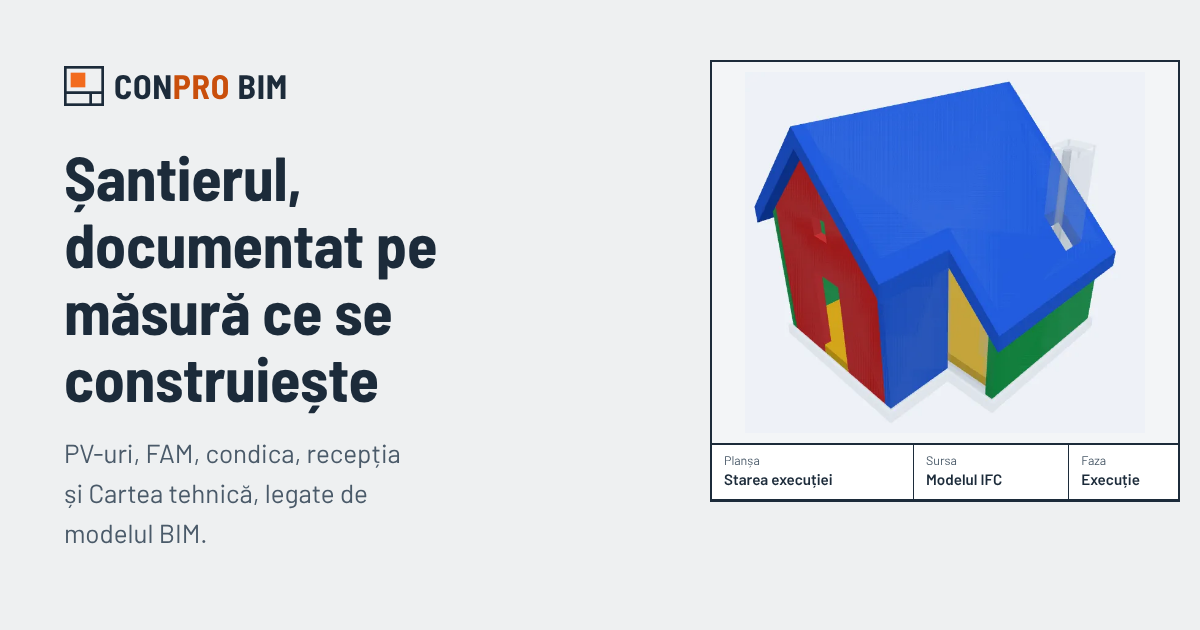
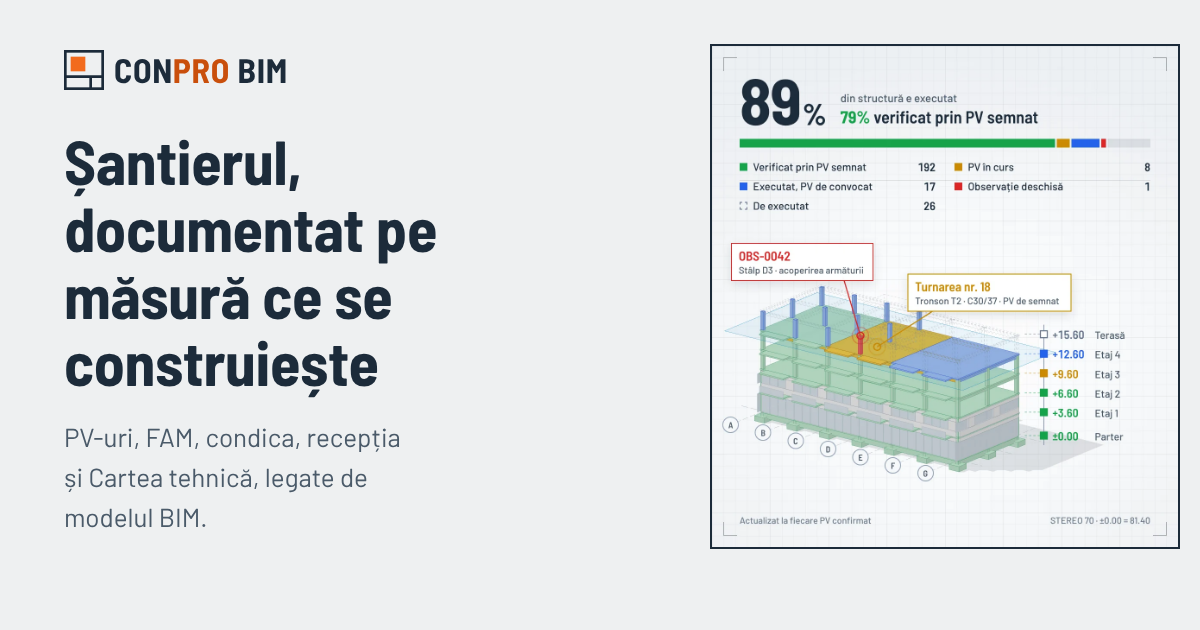
Site: imagine nouă în hero, progresul structurii pe model
- Imaginea casei e înlocuită cu blocul BLC01 în execuție: 89% din
  structură executat, 79% verificat prin PV, bara de progres și legenda
  cu numărul de elemente, cotele nivelurilor și două etichete pe model
  (OBS-0042, turnarea nr. 18). Partea neconstruită e doar conturată.
- Legenda din cartuș e scoasă, fiindcă e acum în imagine.
- og.png refăcut în același stil.
- site.css și site.js primesc ?v= după conținut, ca vizitatorii care
  revin să nu rămână cu fișierele vechi din cache.

Claude-Session: https://claude.ai/code/session_01XNgf3RWiH7pGkiT6GoQbCw

Changed region(s): [[0.5858, 0.0603, 0.9867, 0.8746], [0.0308, 0.2111, 0.37, 0.8746], [0.0308, 0.0603, 0.2467, 0.181]]

diff --git a/site/public/index.html b/site/public/index.html
@@ -19,9 +19,9 @@
 <link rel="icon" href="/favicon.svg" type="image/svg+xml">
 <link rel="preload" href="/assets/fonts/barlow-semi-condensed-latin-700-normal.woff2" as="font" type="font/woff2" crossorigin>
 <link rel="preload" href="/assets/fonts/barlow-latin-400-normal.woff2" as="font" type="font/woff2" crossorigin>
-<link rel="stylesheet" href="/assets/site.css">
+<link rel="stylesheet" href="/assets/site.css?v=215c3ca7ae">
 <script src="/assets/config.js"></script>
-<script src="/assets/site.js" defer></script>
+<script src="/assets/site.js?v=7b73b137cf" defer></script>
 <script type="application/ld+json">{"@context":"https://schema.org","@type":"Organization","name":"Conpro Solutions SRL","url":"https://conpro.ro","email":"office@conpro.ro","telephone":"+40745667495","taxID":"RO40247566","address":{"@type":"PostalAddress","streetAddress":"Str. Metalurgiei nr. 8","addressLocality":"Baia Mare","addressRegion":"Maramureș","addressCountry":"RO"}}</script>
 <script type="application/ld+json">{"@context":"https://schema.org","@type":"SoftwareApplication","name":"Conpro BIM","applicationCategory":"BusinessApplication","operatingSystem":"Web","url":"https://bim.conpro.ro","inLanguage":"ro","publisher":{"@type":"Organization","name":"Conpro Solutions SRL"},"description":"Aplicație pentru documentarea execuției construcțiilor: procese verbale, FAM, condica de betoane, registrul dirigintelui, recepția și Cartea tehnică, legate de modelul BIM (IFC). Conformă cu Legea 169/2026 și SR EN ISO 19650.","featureList":["Procese verbale de lucrări ascunse și faze determinante","Fișe de aprobare a materialelor (FAM)","Condica de betoane și încercări","Registrul electronic al dirigintelui și RTE","Model IFC colorat după starea execuției","Observații pe model în format BCF 2.1","Verificarea modelului după reguli IDS 1.0","Recepția la terminarea lucrărilor","Cartea tehnică electronică și COBie","EIR și BEP după ISO 19650","Urmărirea în timp, mentenanță și reclamații în exploatare"]}</script>
 </head>
@@ -41,15 +41,9 @@
     <div class="actiuni"><a class="buton principal" href="#demo">Programează o demonstrație</a><a class="buton" href="#roluri">Ce face pentru dumneavoastră</a></div>
   </div>
   <figure class="plansa" style="margin:0">
-  <div class="desen"><img src="/assets/img/model-executie.webp" width="652" height="588" alt="Modelul 3D al clădirii colorat după starea execuției: verde verificat prin PV semnat, galben PV în curs, albastru executat, roșu cu observație deschisă" fetchpriority="high"></div>
+  <div class="desen"><img src="/assets/img/structura-azi.webp" width="1080" height="1160" alt="Modelul 3D al blocului BLC01 în execuție: 89% din structură executat, 79% verificat prin PV semnat. Structura e colorată după stare: verde verificat prin PV semnat, galben PV în curs, albastru executat, roșu cu observație deschisă, iar ce urmează e doar conturat. Pe model: observația OBS-0042 la stâlpul D3 și turnarea nr. 18 pe tronsonul T2; în dreapta, cotele nivelurilor de la ±0.00 la +15.60" fetchpriority="high"></div>
   <figcaption class="cartus">
     <div><small>Proiect</small><strong>BLC01 · Bloc de locuințe P+4</strong></div><div><small>Planșa</small><strong>Starea execuției pe model</strong></div><div class="ascunde-mic"><small>Faza</small><strong>Execuție</strong></div><div><small>Sursa</small><strong>Modelul IFC, 3 discipline</strong></div><div><small>Actualizat</small><strong>la fiecare PV confirmat</strong></div><div class="ascunde-mic"><small>Scara</small><strong>întreaga clădire</strong></div>
-    <div class="lat"><small>Legenda</small><ul class="legenda">
-      <li><i style="background:var(--verificat)"></i>Verificat prin PV semnat</li>
-      <li><i style="background:var(--in-verificare)"></i>PV în curs</li>
-      <li><i style="background:var(--executat)"></i>Executat</li>
-      <li><i style="background:var(--observatie)"></i>Observație deschisă</li>
-    </ul></div>
   </figcaption>
 </figure>
 </div></section>

diff --git a/site/public/beneficiari-publici/index.html b/site/public/beneficiari-publici/index.html
@@ -19,9 +19,9 @@
 <link rel="icon" href="/favicon.svg" type="image/svg+xml">
 <link rel="preload" href="/assets/fonts/barlow-semi-condensed-latin-700-normal.woff2" as="font" type="font/woff2" crossorigin>
 <link rel="preload" href="/assets/fonts/barlow-latin-400-normal.woff2" as="font" type="font/woff2" crossorigin>
-<link rel="stylesheet" href="/assets/site.css">
+<link rel="stylesheet" href="/assets/site.css?v=215c3ca7ae">
 <script src="/assets/config.js"></script>
-<script src="/assets/site.js" defer></script>
+<script src="/assets/site.js?v=7b73b137cf" defer></script>
 <script type="application/ld+json">{"@context":"https://schema.org","@type":"SoftwareApplication","name":"Conpro BIM","applicationCategory":"BusinessApplication","operatingSystem":"Web","url":"https://bim.conpro.ro","inLanguage":"ro","publisher":{"@type":"Organization","name":"Conpro Solutions SRL"},"description":"Aplicație pentru documentarea execuției construcțiilor: procese verbale, FAM, condica de betoane, registrul dirigintelui, recepția și Cartea tehnică, legate de modelul BIM (IFC). Conformă cu Legea 169/2026 și SR EN ISO 19650.","featureList":["Procese verbale de lucrări ascunse și faze determinante","Fișe de aprobare a materialelor (FAM)","Condica de betoane și încercări","Registrul electronic al dirigintelui și RTE","Model IFC colorat după starea execuției","Observații pe model în format BCF 2.1","Verificarea modelului după reguli IDS 1.0","Recepția la terminarea lucrărilor","Cartea tehnică electronică și COBie","EIR și BEP după ISO 19650","Urmărirea în timp, mentenanță și reclamații în exploatare"]}</script>
 </head>
 <body data-rol="Beneficiar public">
@@ -40,15 +40,9 @@
     <div class="actiuni"><a class="buton principal" href="#demo">Programează o demonstrație</a><a class="buton" href="#functii">Ce face, pe scurt</a></div>
   </div>
   <figure class="plansa" style="margin:0">
-  <div class="desen"><img src="/assets/img/model-executie.webp" width="652" height="588" alt="Modelul 3D al clădirii colorat după starea execuției, în Conpro BIM" fetchpriority="high"></div>
+  <div class="desen"><img src="/assets/img/structura-azi.webp" width="1080" height="1160" alt="Modelul 3D al blocului BLC01 în execuție: 89% din structură executat, 79% verificat prin PV semnat. Structura e colorată după stare: verde verificat prin PV semnat, galben PV în curs, albastru executat, roșu cu observație deschisă, iar ce urmează e doar conturat. Pe model: observația OBS-0042 la stâlpul D3 și turnarea nr. 18 pe tronsonul T2; în dreapta, cotele nivelurilor de la ±0.00 la +15.60" fetchpriority="high"></div>
   <figcaption class="cartus">
     <div><small>Rolul</small><strong>Beneficiar public</strong></div><div><small>Cerințe</small><strong>EIR și fișier IDS 1.0</strong></div><div class="ascunde-mic"><small>Standard</small><strong>SR EN ISO 19650</strong></div><div><small>Verificare</small><strong>automată, pe modelele IFC</strong></div><div><small>Predare</small><strong>Cartea tehnică și COBie</strong></div><div class="ascunde-mic"><small>Exploatare</small><strong>ISO 19650-3</strong></div>
-    <div class="lat"><small>Legenda</small><ul class="legenda">
-      <li><i style="background:var(--verificat)"></i>Verificat prin PV semnat</li>
-      <li><i style="background:var(--in-verificare)"></i>PV în curs</li>
-      <li><i style="background:var(--executat)"></i>Executat</li>
-      <li><i style="background:var(--observatie)"></i>Observație deschisă</li>
-    </ul></div>
   </figcaption>
 </figure>
 </div></section>

diff --git a/site/public/diriginti/index.html b/site/public/diriginti/index.html
@@ -19,9 +19,9 @@
 <link rel="icon" href="/favicon.svg" type="image/svg+xml">
 <link rel="preload" href="/assets/fonts/barlow-semi-condensed-latin-700-normal.woff2" as="font" type="font/woff2" crossorigin>
 <link rel="preload" href="/assets/fonts/barlow-latin-400-normal.woff2" as="font" type="font/woff2" crossorigin>
-<link rel="stylesheet" href="/assets/site.css">
+<link rel="stylesheet" href="/assets/site.css?v=215c3ca7ae">
 <script src="/assets/config.js"></script>
-<script src="/assets/site.js" defer></script>
+<script src="/assets/site.js?v=7b73b137cf" defer></script>
 <script type="application/ld+json">{"@context":"https://schema.org","@type":"SoftwareApplication","name":"Conpro BIM","applicationCategory":"BusinessApplication","operatingSystem":"Web","url":"https://bim.conpro.ro","inLanguage":"ro","publisher":{"@type":"Organization","name":"Conpro Solutions SRL"},"description":"Aplicație pentru documentarea execuției construcțiilor: procese verbale, FAM, condica de betoane, registrul dirigintelui, recepția și Cartea tehnică, legate de modelul BIM (IFC). Conformă cu Legea 169/2026 și SR EN ISO 19650.","featureList":["Procese verbale de lucrări ascunse și faze determinante","Fișe de aprobare a materialelor (FAM)","Condica de betoane și încercări","Registrul electronic al dirigintelui și RTE","Model IFC colorat după starea execuției","Observații pe model în format BCF 2.1","Verificarea modelului după reguli IDS 1.0","Recepția la terminarea lucrărilor","Cartea tehnică electronică și COBie","EIR și BEP după ISO 19650","Urmărirea în timp, mentenanță și reclamații în exploatare"]}</script>
 </head>
 <body data-rol="Diriginte de șantier">
@@ -40,15 +40,9 @@
     <div class="actiuni"><a class="buton principal" href="#demo">Programează o demonstrație</a><a class="buton" href="#functii">Ce face, pe scurt</a></div>
   </div>
   <figure class="plansa" style="margin:0">
-  <div class="desen"><img src="/assets/img/model-executie.webp" width="652" height="588" alt="Modelul 3D al clădirii colorat după starea execuției, în Conpro BIM" fetchpriority="high"></div>
+  <div class="desen"><img src="/assets/img/structura-azi.webp" width="1080" height="1160" alt="Modelul 3D al blocului BLC01 în execuție: 89% din structură executat, 79% verificat prin PV semnat. Structura e colorată după stare: verde verificat prin PV semnat, galben PV în curs, albastru executat, roșu cu observație deschisă, iar ce urmează e doar conturat. Pe model: observația OBS-0042 la stâlpul D3 și turnarea nr. 18 pe tronsonul T2; în dreapta, cotele nivelurilor de la ±0.00 la +15.60" fetchpriority="high"></div>
   <figcaption class="cartus">
     <div><small>Rolul</small><strong>Diriginte de șantier</strong></div><div><small>Registru</small><strong>art. 456 din Legea 169/2026</strong></div><div class="ascunde-mic"><small>Faza</small><strong>Execuție</strong></div><div><small>Recepție</small><strong>art. 527–532</strong></div><div><small>Cartea tehnică</small><strong>art. 529–530</strong></div><div class="ascunde-mic"><small>Semnătură</small><strong>eIDAS</strong></div>
-    <div class="lat"><small>Legenda</small><ul class="legenda">
-      <li><i style="background:var(--verificat)"></i>Verificat prin PV semnat</li>
-      <li><i style="background:var(--in-verificare)"></i>PV în curs</li>
-      <li><i style="background:var(--executat)"></i>Executat</li>
-      <li><i style="background:var(--observatie)"></i>Observație deschisă</li>
-    </ul></div>
   </figcaption>
 </figure>
 </div></section>

diff --git a/site/public/constructori/index.html b/site/public/constructori/index.html
@@ -19,9 +19,9 @@
 <link rel="icon" href="/favicon.svg" type="image/svg+xml">
 <link rel="preload" href="/assets/fonts/barlow-semi-condensed-latin-700-normal.woff2" as="font" type="font/woff2" crossorigin>
 <link rel="preload" href="/assets/fonts/barlow-latin-400-normal.woff2" as="font" type="font/woff2" crossorigin>
-<link rel="stylesheet" href="/assets/site.css">
+<link rel="stylesheet" href="/assets/site.css?v=215c3ca7ae">
 <script src="/assets/config.js"></script>
-<script src="/assets/site.js" defer></script>
+<script src="/assets/site.js?v=7b73b137cf" defer></script>
 <script type="application/ld+json">{"@context":"https://schema.org","@type":"SoftwareApplication","name":"Conpro BIM","applicationCategory":"BusinessApplication","operatingSystem":"Web","url":"https://bim.conpro.ro","inLanguage":"ro","publisher":{"@type":"Organization","name":"Conpro Solutions SRL"},"description":"Aplicație pentru documentarea execuției construcțiilor: procese verbale, FAM, condica de betoane, registrul dirigintelui, recepția și Cartea tehnică, legate de modelul BIM (IFC). Conformă cu Legea 169/2026 și SR EN ISO 19650.","featureList":["Procese verbale de lucrări ascunse și faze determinante","Fișe de aprobare a materialelor (FAM)","Condica de betoane și încercări","Registrul electronic al dirigintelui și RTE","Model IFC colorat după starea execuției","Observații pe model în format BCF 2.1","Verificarea modelului după reguli IDS 1.0","Recepția la terminarea lucrărilor","Cartea tehnică electronică și COBie","EIR și BEP după ISO 19650","Urmărirea în timp, mentenanță și reclamații în exploatare"]}</script>
 </head>
 <body data-rol="Constructor / RTE">
@@ -40,15 +40,9 @@
     <div class="actiuni"><a class="buton principal" href="#demo">Programează o demonstrație</a><a class="buton" href="#functii">Ce face, pe scurt</a></div>
   </div>
   <figure class="plansa" style="margin:0">
-  <div class="desen"><img src="/assets/img/model-executie.webp" width="652" height="588" alt="Modelul 3D al clădirii colorat după starea execuției, în Conpro BIM" fetchpriority="high"></div>
+  <div class="desen"><img src="/assets/img/structura-azi.webp" width="1080" height="1160" alt="Modelul 3D al blocului BLC01 în execuție: 89% din structură executat, 79% verificat prin PV semnat. Structura e colorată după stare: verde verificat prin PV semnat, galben PV în curs, albastru executat, roșu cu observație deschisă, iar ce urmează e doar conturat. Pe model: observația OBS-0042 la stâlpul D3 și turnarea nr. 18 pe tronsonul T2; în dreapta, cotele nivelurilor de la ±0.00 la +15.60" fetchpriority="high"></div>
   <figcaption class="cartus">
     <div><small>Rolul</small><strong>Constructor / RTE</strong></div><div><small>Condica</small><strong>Excel și PDF</strong></div><div class="ascunde-mic"><small>Faza</small><strong>Execuție</strong></div><div><small>Echipamente</small><strong>COBie din modelul IFC</strong></div><div><small>Licitații BIM</small><strong>BEP, IFC, BCF</strong></div><div class="ascunde-mic"><small>Registru RTE</small><strong>art. 459</strong></div>
-    <div class="lat"><small>Legenda</small><ul class="legenda">
-      <li><i style="background:var(--verificat)"></i>Verificat prin PV semnat</li>
-      <li><i style="background:var(--in-verificare)"></i>PV în curs</li>
-      <li><i style="background:var(--executat)"></i>Executat</li>
-      <li><i style="background:var(--observatie)"></i>Observație deschisă</li>
-    </ul></div>
   </figcaption>
 </figure>
 </div></section>

diff --git a/site/public/assets/site.css b/site/public/assets/site.css
@@ -79,12 +79,13 @@ p { margin: 0 0 1em; max-width: 66ch; }
 @media (max-width: 960px) { .hero .cadru { grid-template-columns: 1fr; gap: 36px; } .hero { padding: 40px 0 48px; } }
 
 .plansa { background: var(--hartie); border: 2px solid var(--cerneala); }
-.plansa .desen { padding: 18px; background: #f3f5f7; border-bottom: 2px solid var(--cerneala); position: relative; }
+.plansa .desen { background: #f3f5f7; border-bottom: 2px solid var(--cerneala); position: relative; }
 .plansa .desen img { margin: 0 auto; }
 /* cartușul: câmpurile unei planșe, cu eticheta mică deasupra valorii */
 .cartus { display: grid; grid-template-columns: 1.3fr 1fr 0.7fr; font-size: 0.95rem; }
 .cartus > div { padding: 8px 12px 10px; border-right: 1px solid var(--cerneala); border-bottom: 1px solid var(--cerneala); min-width: 0; }
 .cartus > div:nth-child(3n) { border-right: 0; }
+.cartus > div:nth-last-child(-n+3) { border-bottom: 0; }
 .cartus > .lat { grid-column: 1 / -1; border-right: 0; border-bottom: 0; }
 .cartus small { display: block; color: var(--cerneala-2); font-size: 0.78rem; line-height: 1.2; margin-bottom: 2px; }
 .cartus strong { font-weight: 600; display: block; line-height: 1.25; overflow-wrap: anywhere; }

diff --git a/site/public/multumim/index.html b/site/public/multumim/index.html
@@ -19,9 +19,9 @@
 <link rel="icon" href="/favicon.svg" type="image/svg+xml">
 <link rel="preload" href="/assets/fonts/barlow-semi-condensed-latin-700-normal.woff2" as="font" type="font/woff2" crossorigin>
 <link rel="preload" href="/assets/fonts/barlow-latin-400-normal.woff2" as="font" type="font/woff2" crossorigin>
-<link rel="stylesheet" href="/assets/site.css">
+<link rel="stylesheet" href="/assets/site.css?v=215c3ca7ae">
 <script src="/assets/config.js"></script>
-<script src="/assets/site.js" defer></script>
+<script src="/assets/site.js?v=7b73b137cf" defer></script>
 
 </head>
 <body data-conversie>

diff --git a/site/public/404.html b/site/public/404.html
@@ -19,9 +19,9 @@
 <link rel="icon" href="/favicon.svg" type="image/svg+xml">
 <link rel="preload" href="/assets/fonts/barlow-semi-condensed-latin-700-normal.woff2" as="font" type="font/woff2" crossorigin>
 <link rel="preload" href="/assets/fonts/barlow-latin-400-normal.woff2" as="font" type="font/woff2" crossorigin>
-<link rel="stylesheet" href="/assets/site.css">
+<link rel="stylesheet" href="/assets/site.css?v=215c3ca7ae">
 <script src="/assets/config.js"></script>
-<script src="/assets/site.js" defer></script>
+<script src="/assets/site.js?v=7b73b137cf" defer></script>
 
 </head>
 <body>

diff --git a/site/public/cookie-uri/index.html b/site/public/cookie-uri/index.html
@@ -19,9 +19,9 @@
 <link rel="icon" href="/favicon.svg" type="image/svg+xml">
 <link rel="preload" href="/assets/fonts/barlow-semi-condensed-latin-700-normal.woff2" as="font" type="font/woff2" crossorigin>
 <link rel="preload" href="/assets/fonts/barlow-latin-400-normal.woff2" as="font" type="font/woff2" crossorigin>
-<link rel="stylesheet" href="/assets/site.css">
+<link rel="stylesheet" href="/assets/site.css?v=215c3ca7ae">
 <script src="/assets/config.js"></script>
-<script src="/assets/site.js" defer></script>
+<script src="/assets/site.js?v=7b73b137cf" defer></script>
 
 </head>
 <body>
